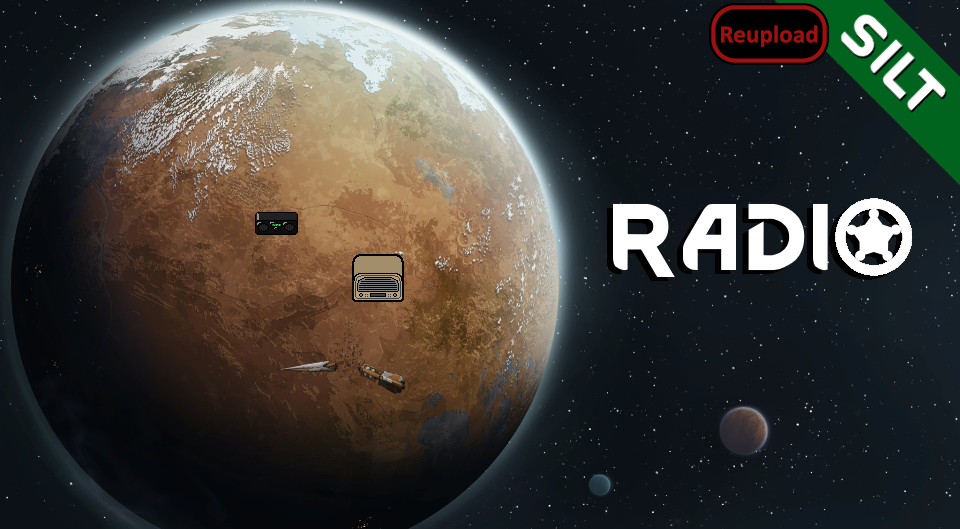
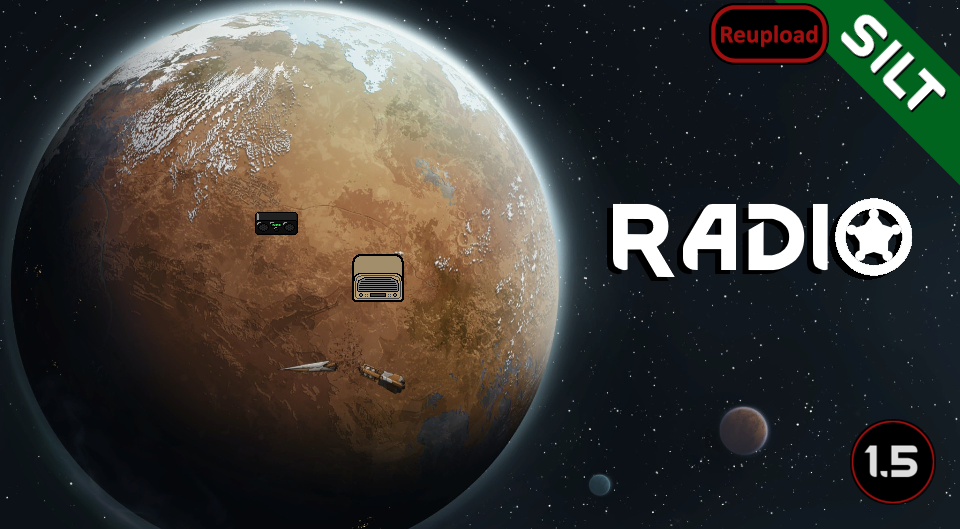
Mod updated for 1.5 and passed autotests

Changed region(s): [[0.875, 0.7864, 1.0, 0.9679]]

diff --git a/README.md b/README.md
@@ -41,11 +41,13 @@ Nevertheless, this mod should still work fine as it is.
 
 -  See if the the error persists if you just have this mod and its requirements active.
 -  If not, try adding your other mods until it happens again.
--  Post your error-log using https://steamcommunity.com/workshop/filedetails/?id=818773962]HugsLib and command Ctrl+F12
+-  Post your error-log using https://steamcommunity.com/workshop/filedetails/?id=818773962]HugsLib or the standalone https://steamcommunity.com/sharedfiles/filedetails/?id=2873415404]Uploader and command Ctrl+F12
 -  For best support, please use the Discord-channel for error-reporting.
 -  Do not report errors by making a discussion-thread, I get no notification of that.
 -  If you have the solution for a problem, please post it to the GitHub repository.
+-  Use https://github.com/RimSort/RimSort/releases/latest]RimSort to sort your mods
 
 
 
+https://steamcommunity.com/sharedfiles/filedetails/changelog/2404731911]![Image](https://img.shields.io/github/v/release/emipa606/SiltsRadio?label=latest%20version&style=plastic&color=9f1111&labelColor=black)
 
